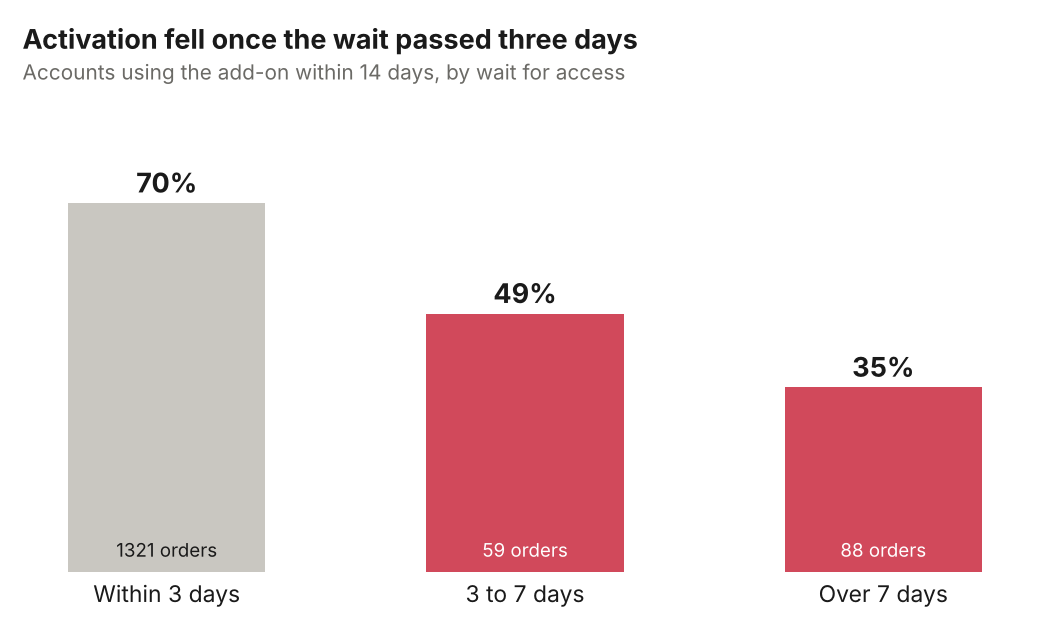
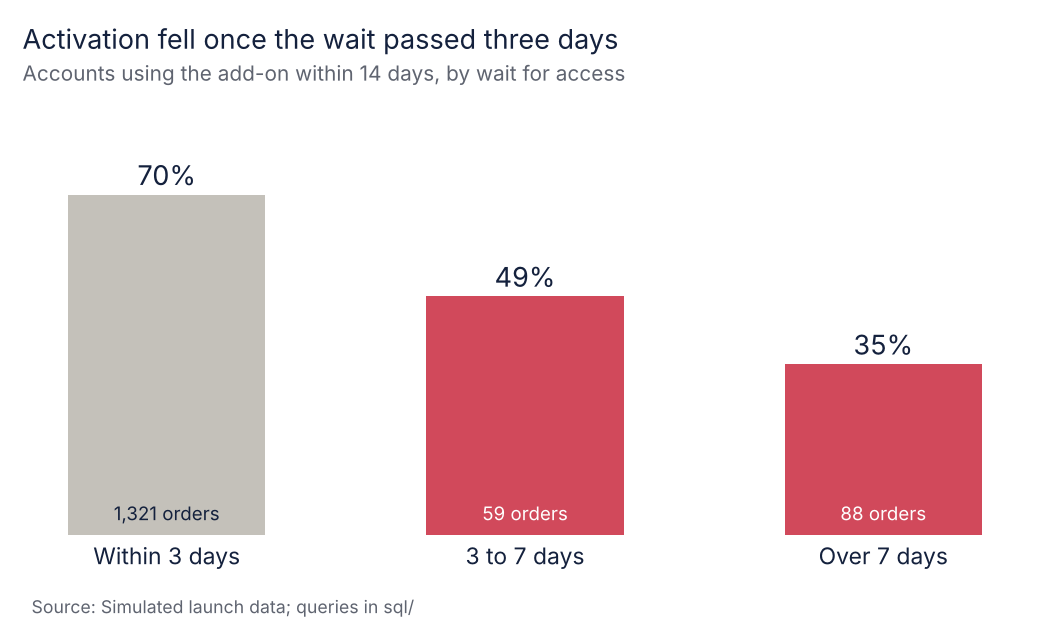
Portfolio chart style

diff --git a/src/brand_style.py b/src/brand_style.py
@@ -1,0 +1,90 @@
+"""Shared chart style for Ekene Okafor's portfolio.
+
+One message per chart, stated in a sentence-case headline (regular weight, not bold or all caps),
+a short deck underneath, one highlight colour with grey for context, direct labels instead of legends,
+no gridlines, horizontal text only, bars from zero, and a source line.
+Colours are validated with the dataviz palette checks (lightness band, chroma, contrast, CVD).
+"""
+import matplotlib
+import matplotlib.pyplot as plt
+
+INK = "#14213d"        # navy: headlines, values, key labels
+MUTED = "#5f6470"      # deck, axis labels, source line (5.9:1 on white)
+CONTEXT = "#c4c1ba"    # grey for everything that is not the message (always direct-labelled)
+HAIRLINE = "#dedbd4"   # baselines and reference lines
+SURFACE = "#ffffff"
+BRAND_ACCENT = "#e0612e"  # signature orange
+
+# One highlight colour per project, so each repo is recognisable; never mixed in one chart
+PROJECT = {
+    "city-expansion-scorecard": "#2a78d6",
+    "campaign-uplift-targeting": "#e0612e",
+    "saas-cross-sell-playbook": "#14946a",
+    "business-review-agent": "#6250d6",
+    "marketplace-supply-simulation": "#2f8a2f",
+    "market-entry-investment-case": "#c94f86",
+    "funnel-attribution-audit": "#b35900",
+    "gtm-launch-playbook": "#d1495b",
+    "crm-data-hygiene-audit": "#00819e",
+}
+
+matplotlib.rcParams.update({
+    "font.family": "sans-serif",
+    "font.sans-serif": ["Inter", "Helvetica", "Arial", "DejaVu Sans"],
+    "axes.edgecolor": HAIRLINE,
+    "axes.labelcolor": MUTED,
+    "xtick.color": MUTED,
+    "ytick.color": MUTED,
+    "figure.facecolor": SURFACE,
+    "axes.facecolor": SURFACE,
+    "savefig.facecolor": SURFACE,
+})
+
+
+def figure(width=8.0, height=5.0):
+    """Default 8 x 5 (a 5:8 height to width ratio)."""
+    fig, ax = plt.subplots(figsize=(width, height), dpi=150)
+    return fig, ax
+
+
+def clean(ax, keep="x"):
+    """Remove chart junk. keep='x' keeps a bottom baseline (vertical bars, lines);
+    keep='y' keeps a left baseline (horizontal bars); keep=None removes both."""
+    for side in ["top", "right", "left", "bottom"]:
+        ax.spines[side].set_visible(False)
+    if keep == "x":
+        ax.spines["bottom"].set_visible(True)
+        ax.spines["bottom"].set_color(HAIRLINE)
+    if keep == "y":
+        ax.spines["left"].set_visible(True)
+        ax.spines["left"].set_color(HAIRLINE)
+    ax.grid(False)
+    ax.tick_params(length=0, labelsize=10.5, colors=MUTED)
+    return ax
+
+
+def headline(fig, title, deck=None):
+    """Takeaway headline in sentence case, regular weight, with an optional deck."""
+    fig.text(0.03, 0.965, title, fontsize=15, color=INK, ha="left", va="top")
+    if deck:
+        fig.text(0.03, 0.905, deck, fontsize=10.5, color=MUTED, ha="left", va="top")
+
+
+def source(fig, text):
+    fig.text(0.03, 0.02, f"Source: {text}", fontsize=8.5, color=MUTED, ha="left", va="bottom")
+
+
+def finish(fig, path, top=0.84, bottom=0.12, left=0.08, right=0.97):
+    fig.subplots_adjust(top=top, bottom=bottom, left=left, right=right)
+    fig.savefig(path, dpi=150, facecolor=SURFACE)
+    plt.close(fig)
+
+
+STREAMLIT_THEME = """[theme]
+base = "light"
+primaryColor = "{accent}"
+backgroundColor = "#ffffff"
+secondaryBackgroundColor = "#f7f6f2"
+textColor = "#14213d"
+font = "sans serif"
+"""

diff --git a/src/run_analysis.py b/src/run_analysis.py
@@ -7,10 +7,13 @@ import duckdb
 import matplotlib
 matplotlib.use("Agg")
 import matplotlib.pyplot as plt
+import sys as _sys
+_sys.path.insert(0, str(Path(__file__).parent))
+import brand_style as brand
 
 ROOT = Path(__file__).resolve().parents[1]
 DATA, SQL, RES, IMG = ROOT / "data", ROOT / "sql", ROOT / "results", ROOT / "images"
-HIGHLIGHT, GREY, INK, MUTED = "#d1495b", "#c9c7c1", "#1a1a1a", "#6b6a66"
+HIGHLIGHT, GREY, INK, MUTED = brand.PROJECT["gtm-launch-playbook"], brand.CONTEXT, brand.INK, brand.MUTED
 
 
 def load():
@@ -51,15 +54,16 @@ def chart_access(df):
                   color=[GREY, HIGHLIGHT])
     for b, v, c in zip(bars, vals, order):
         med = df.loc[c, "median_days"]
-        ax.text(b.get_x() + b.get_width() / 2, v + 2, f"{v:.0f}%", ha="center", fontsize=14, fontweight="bold", color=INK)
+        ax.text(b.get_x() + b.get_width() / 2, v + 2, f"{v:.0f}%", ha="center", fontsize=14, color=INK)
         ax.text(b.get_x() + b.get_width() / 2, v + 9, ("instant access" if med < 0.1 else f"median wait {med:.1f} days"), ha="center", fontsize=9.5, color=MUTED)
-    ax.axhline(95, color=MUTED, linestyle=(0, (3, 3)), linewidth=1)
+    ax.axhline(95, color=brand.HAIRLINE, linewidth=1)
     ax.text(1.42, 95, "target 95%", va="center", fontsize=9.5, color=MUTED)
     ax.set_ylim(0, 118)
     style(ax)
-    ax.set_title("Sales-led customers waited days for access", loc="left", fontsize=13, fontweight="bold", color=INK, pad=24)
+    ax.set_title("Sales-led customers waited days for access", loc="left", fontsize=13, color=INK, pad=24)
     ax.text(0, 1.03, "Orders with working access within 24 hours", transform=ax.transAxes, fontsize=10, color=MUTED, va="bottom")
-    fig.tight_layout()
+    fig.tight_layout(rect=(0, 0.06, 1, 1))
+    brand.source(fig, "Simulated launch data; queries in sql/")
     fig.savefig(IMG / "01_access_within_24h.png", facecolor="white")
     plt.close(fig)
 
@@ -71,13 +75,14 @@ def chart_activation(df):
     fig, ax = plt.subplots(figsize=(7, 4.2), dpi=150)
     bars = ax.bar(labels, vals, width=0.55, color=colors)
     for b, v, n, c in zip(bars, vals, df.orders, colors):
-        ax.text(b.get_x() + b.get_width() / 2, v + 2, f"{v:.0f}%", ha="center", fontsize=13, fontweight="bold", color=INK)
-        ax.text(b.get_x() + b.get_width() / 2, 3, f"{n} orders", ha="center", fontsize=9, color=INK if c == GREY else "white")
+        ax.text(b.get_x() + b.get_width() / 2, v + 2, f"{v:.0f}%", ha="center", fontsize=13, color=INK)
+        ax.text(b.get_x() + b.get_width() / 2, 3, f"{n:,} orders", ha="center", fontsize=9, color=INK if c == GREY else "white")
     ax.set_ylim(0, 90)
     style(ax)
-    ax.set_title("Activation fell once the wait passed three days", loc="left", fontsize=13, fontweight="bold", color=INK, pad=24)
+    ax.set_title("Activation fell once the wait passed three days", loc="left", fontsize=13, color=INK, pad=24)
     ax.text(0, 1.03, "Accounts using the add-on within 14 days, by wait for access", transform=ax.transAxes, fontsize=10, color=MUTED, va="bottom")
-    fig.tight_layout()
+    fig.tight_layout(rect=(0, 0.06, 1, 1))
+    brand.source(fig, "Simulated launch data; queries in sql/")
     fig.savefig(IMG / "02_activation_by_wait.png", facecolor="white")
     plt.close(fig)
 
